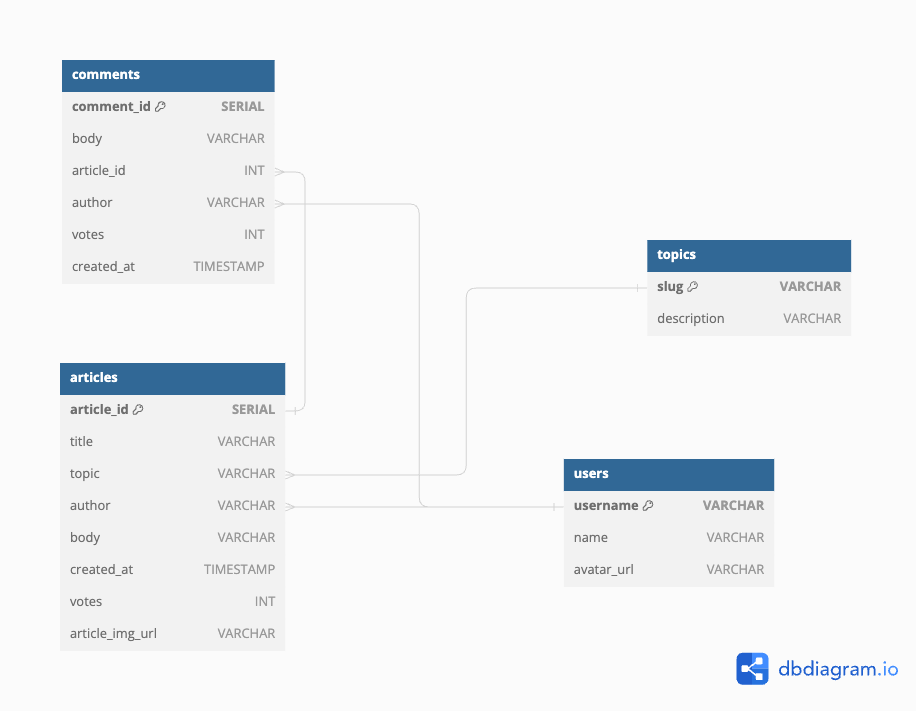
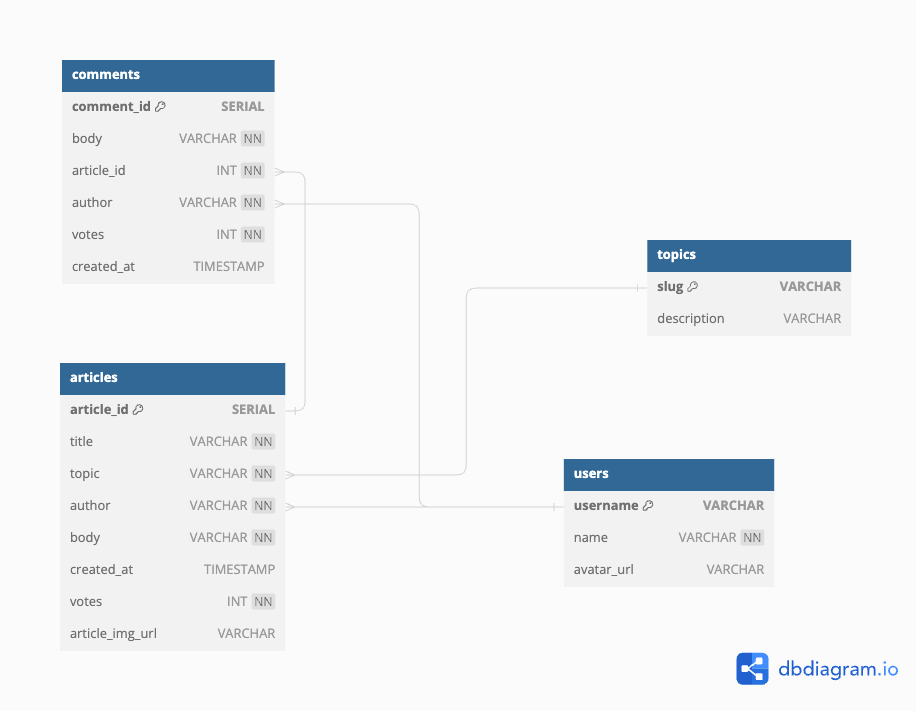
add POST  /api/articles/:article_id/comments. Also amend ERD to include not null fields

diff --git a/__tests__/app.test.js b/__tests__/app.test.js
@@ -175,4 +175,98 @@ describe('APP', () => {
             })
         });
     })
+    describe('POST /api/articles/:article_id/comments', () => {
+        test('should insert a new comment and return a 201 status, along with an object of the new comment', () => {
+            const newComment = {
+                author: 'icellusedkars',
+                body: 'We will see about that!'
+            }
+            return request(app)
+            .post('/api/articles/13/comments')
+            .send(newComment)
+            .expect(201)
+            .then((response) => {
+                const expectedResponse = {
+                    body: 'We will see about that!',
+                    article_id: 13,
+                    author: 'icellusedkars',
+                }
+                expect(response.body.postedComment).toMatchObject(expectedResponse)
+
+            })
+        });
+        test('should add comment_id, votes and created_at fields to the repsonse', () => {
+            const newComment ={
+                author: 'icellusedkars',
+                body: 'We will see about that!'
+            }
+            return request(app)
+            .post('/api/articles/13/comments')
+            .send(newComment)
+            .expect(201)
+            .then((response) => {
+                const expectedResponse = {
+                    comment_id: expect.any(Number),
+                    body: 'We will see about that!',
+                    article_id: 13,
+                    author: 'icellusedkars',
+                    votes: 0,
+                    created_at: expect.any(String)
+                }
+                expect(response.body.postedComment).toMatchObject(expectedResponse)
+            })
+        });
+        test('should return a 400 status and message when an article_id that is valid but does not exist is supplied', () => {
+            const newComment = {
+                author: 'icellusedkars',
+                body: 'We will see about that!'
+            }
+            return request(app)
+            .post('/api/articles/9999/comments')
+            .send(newComment)
+            .expect(400)
+            .then((response) => {
+                expect(response.body.msg).toBe('Bad request')
+            })
+        });
+        test('should return a 400 status and message when an invalid user is supplied ', () => {
+            const newComment = {
+                author: 'not_a_valid_user',
+                body: 'We will see about that!'
+            }
+            return request(app)
+            .post('/api/articles/13/comments')
+            .send(newComment)
+            .expect(400)
+            .then((response) => {
+                expect(response.body.msg).toBe('Bad request')
+            })
+        });
+        test('should return a 400 status and message when a required field is not supplied', () => {
+            const newComment = {
+                author: 'icellusedkars'
+            }
+            return request(app)
+            .post('/api/articles/13/comments')
+            .send(newComment)
+            .expect(400)
+            .then((response) => {
+                expect(response.body.msg).toBe('Bad request')
+            })
+        });
+        test('should return a 400 status and message if an object with additional keys is supplied', () => {
+            const newComment = {
+                author: 'icellusedkars',
+                body: 'We will see about that!',
+                not_valid: "Not valid"
+            }
+            return request(app)
+            .post('/api/articles/13/comments')
+            .send(newComment)
+            .expect(400)
+            .then((response) => {
+                expect(response.body.msg).toBe('Bad request')
+            })
+        });
+    });
 })

diff --git a/controllers/app.controller.js b/controllers/app.controller.js
@@ -1,5 +1,4 @@
-const { response } = require('../app.js')
-const {selectAllTopics, selectEndpoints, selectArticleById, selectAllArticles, selectCommentsByArticleId} = require('../models/app.model.js')    
+const {selectAllTopics, selectEndpoints, selectArticleById, selectAllArticles, selectCommentsByArticleId, insertNewComment} = require('../models/app.model.js')    
 
 function returnHealthcheck(request, response){
     response.status(200).send({msg: 'Healthcheck ok'})
@@ -55,4 +54,23 @@ function returnCommentsByArticleId(request, response, next){
     .catch(next)
 }
 
-module.exports = {returnHealthcheck, returnAllEndpoints, returnAllTopics, returnArticleById, returnAllArticles, returnCommentsByArticleId}
+function postCommentByArticleId(request, response, next){
+    const articleId = request.params.article_id
+    const newComment = request.body
+    // console.log(newComment);
+    if (Object.keys(newComment).length !== 2){
+        return response.status(400).send({msg: 'Bad request'})
+    }
+    
+    insertNewComment(articleId, newComment)
+    .then((newComment) => {
+        response.status(201).send({postedComment: newComment[0]})
+    })
+    .catch((err) => {
+        // console.log(err)
+        next(err);
+    })
+
+}
+
+module.exports = {returnHealthcheck, returnAllEndpoints, returnAllTopics, returnArticleById, returnAllArticles, returnCommentsByArticleId, postCommentByArticleId}

diff --git a/models/app.model.js b/models/app.model.js
@@ -1,6 +1,5 @@
 const db = require('../db/connection.js')
 const fs = require('fs/promises')
-const articles = require('../db/data/test-data/articles.js')
 
 function selectEndpoints(){
     return fs.readFile(`${__dirname}/../endpoints.json`, 'utf-8')
@@ -55,4 +54,19 @@ function selectCommentsByArticleId(articleId){
     })
 }
 
-module.exports = {selectAllTopics, selectEndpoints, selectArticleById, selectAllArticles, selectCommentsByArticleId}
+function insertNewComment(articleId, newComment){
+    // console.log(articleId);
+    // console.log(newComment);
+    return db.query(`
+    INSERT INTO comments (article_id, author, body)
+    VALUES ($1, $2, $3)
+    RETURNING *;
+    `, [articleId, newComment.author, newComment.body])
+    .then((result) => {
+        // console.log(result.rows);
+        return result.rows
+    })
+
+}
+
+module.exports = {selectAllTopics, selectEndpoints, selectArticleById, selectAllArticles, selectCommentsByArticleId, insertNewComment}

diff --git a/app.js b/app.js
@@ -1,7 +1,9 @@
 const express = require('express')
 const app = express()
-const {returnHealthcheck, returnAllEndpoints, returnAllTopics, returnArticleById, returnAllArticles, returnCommentsByArticleId} = require('./controllers/app.controller.js')
+const {returnHealthcheck, returnAllEndpoints, returnAllTopics, returnArticleById, returnAllArticles, returnCommentsByArticleId, postCommentByArticleId} = require('./controllers/app.controller.js')
 const {handlePsqlErrors, handleCustomErrors, handle500Errors} = require('./controllers/errors.controller.js')
+
+app.use(express.json());
 
 app.get('/api/healthcheck', returnHealthcheck)
 
@@ -14,6 +16,8 @@ app.get('/api/articles/:article_id', returnArticleById)
 app.get('/api/articles', returnAllArticles)
 
 app.get('/api/articles/:article_id/comments', returnCommentsByArticleId)
+
+app.post('/api/articles/:article_id/comments', postCommentByArticleId)
 
 app.use(handlePsqlErrors)
 

diff --git a/controllers/errors.controller.js b/controllers/errors.controller.js
@@ -3,6 +3,12 @@ function handlePsqlErrors(err, request, response, next){
         case '22P02':
         response.status(400).send({msg: 'Bad request'});
         break;
+        case '23502':
+        response.status(400).send({msg: 'Bad request'});
+        break;
+        case '23503':
+        response.status(400).send({msg: 'Bad request'});
+        break;
         default:
             next(err)
     }
